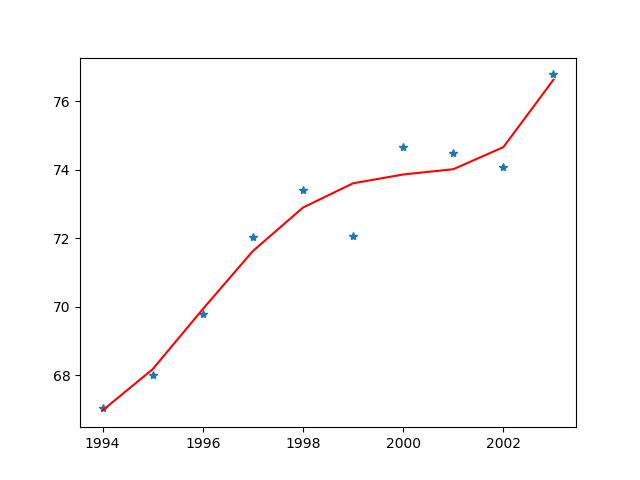
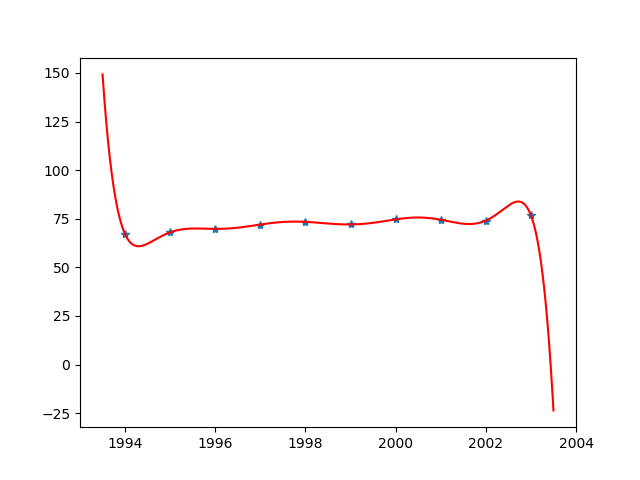
补充

diff --git a/5-求三次样条函数S.py b/5-求三次样条函数S.py
@@ -1,7 +1,49 @@
-import numpy as np
 import matplotlib.pyplot as plt
+import numpy as np
+from sympy import *
 
 
-x = np.array([[0], [1], [2], [3], [4]])
-y = np.array([[1], [3], [3], [4], [2]])
+# 初始化矩阵, n为阶数, Am=g即为要求的最终形式, lambda1, miu为中间变量
+n = 4
+x = np.array([0, 1, 2, 3, 4])
+y = np.array([1, 3, 3, 4, 2])
+A = np.zeros((5, 5))
+lambda1 = np.zeros(5)
+miu = np.zeros(5)
+h = np.zeros(5)
+g = np.zeros(5)
+
+# 根据课本180/181 页公式初始化g, A
+for i in range(1, n):
+    lambda1[i] = 0.5
+    miu[i] = 0.5
+
+for i in range(n):
+    h[i] = 1
+
+g[0] = 6
+g[4] = -6
+for i in range(1, n):
+    g[i] = 3*(miu[i]*(y[i+1]-y[i])/h[i] + lambda1[i]*(y[i]-y[i-1])/h[i-1])
+
+A[0][0] = 2
+A[0][1] = 1
+A[4][3] = 1
+A[4][4] = 2
+for i in range(1, n):
+    A[i][i] = 2
+    A[i][i-1] = lambda1[i]
+    A[i][i+1] = miu[i]
+
+# 解出m
+A_inv = np.linalg.inv(A)
+m = np.dot(A_inv, g)
+
+# 确定n个区间内的函数
+xx = Symbol('x')
+for i in range(n):
+    s = ((h[i]+2*(xx - x[i+1]))/(h[i]**3))*((xx - x[i+1])**2)*y[i] + \
+        ((h[i]-2*(xx - x[i+1]))/(h[i]**3))*((xx - x[i])**2)*y[i+1] + \
+        (xx - x[i])*((xx-x[i+1])**2)*m[i]/(h[i]**2) + (xx - x[i+1])*((xx-x[i])**2)*m[i+1]/(h[i]**2)
+    print(s)
 

diff --git a/1-9阶多项式拟合.py b/1-9阶多项式拟合.py
@@ -8,16 +8,32 @@ import matplotlib.pyplot as plt
 
 x_array = np.arange(1994, 2004, 1)
 y_array = np.array([67.052, 68.008, 69.803, 72.024, 73.400, 72.063, 74.669, 74.487, 74.065, 76.777])
-n = 9
-m = len(x_array)
+m = 10
+
+
+def l(i, x):
+    temp0 = 1.0
+    temp1 = 1.0
+    for k in range(m):
+        if k != i:
+            temp0 *= (x - x_array[k])
+            temp1 *= (x_array[i] - x_array[k])
+    return temp0/temp1
+
+
+def p(x):
+    temp = 0.0
+    for i in range(m):
+        temp += y_array[i]*l(i, x)
+    return temp
+
 
 z1 = np.polyfit(x_array, y_array, 9)
-p1 = np.poly1d(z1)
-print(p1)
-y_val = p1(x_array)
+x = np.linspace(1993.5, 2003.5, 100000)
+y_val = p(x)
 plot1 = plt.plot(x_array, y_array, '*', label='original values')
-plot2 = plt.plot(x_array, y_val, "r")
+plot2 = plt.plot(x, y_val, "r")
 
 # 预估2010年的石油量
-print(p1(2010))
+print(p(2010))
 plt.savefig("1-9阶多项式拟合.png")

diff --git a/4-各种方法求解方程组.py b/4-各种方法求解方程组.py
@@ -77,7 +77,7 @@ def gauss_seidel(n):
             a[i][j] = 1/(i+1+j+1-1)
     # 初始解x0 = (0,0,0...共n个0)
     x = np.ones((n, 1))
-    for _ in range(7000):
+    for _ in range(100000):
         for i in range(n):
             temp = 0
             for j in range(n):
@@ -130,8 +130,10 @@ def c_g(n):
 if __name__ == '__main__':
     # print(gauss(4))
     # print(gauss(8))
-    # jacobi(4)
-    # gauss_seidel(4)
+    # # jacobi(4)
+    # # jacobi(8)
+    # print(gauss_seidel(4))
+    print(gauss_seidel(8))
     print(c_g(4))
-
+    print(c_g(8))
 

diff --git a/2-最小二乘法拟合123次.py b/2-最小二乘法拟合123次.py
@@ -9,7 +9,6 @@ from scipy.optimize import leastsq
 import matplotlib.pyplot as plt
 import numpy as np
 
-
 x_array = np.arange(1994, 2004, 1)
 y_array = np.array([67.052, 68.008, 69.803, 72.024, 73.400, 72.063, 74.669, 74.487, 74.065, 76.777])
 
@@ -17,7 +16,6 @@ y_array = np.array([67.052, 68.008, 69.803, 72.024, 73.400, 72.063, 74.669, 74.4
 def aim_func1(p, x):
     """
     一次多项式拟合的方程
-
     """
     a1, a0 = p
     return a1*x + a0
